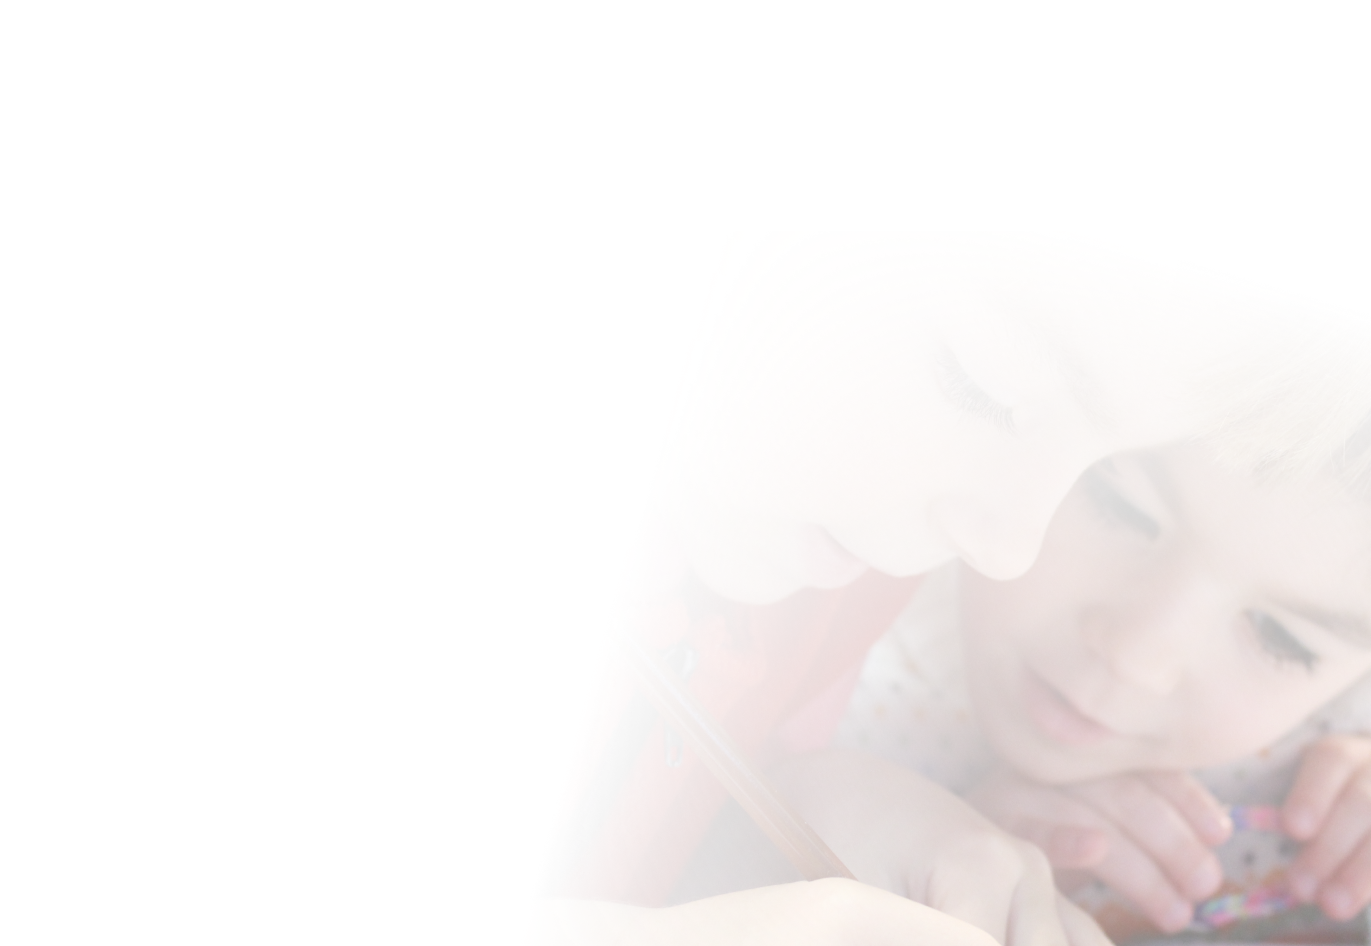
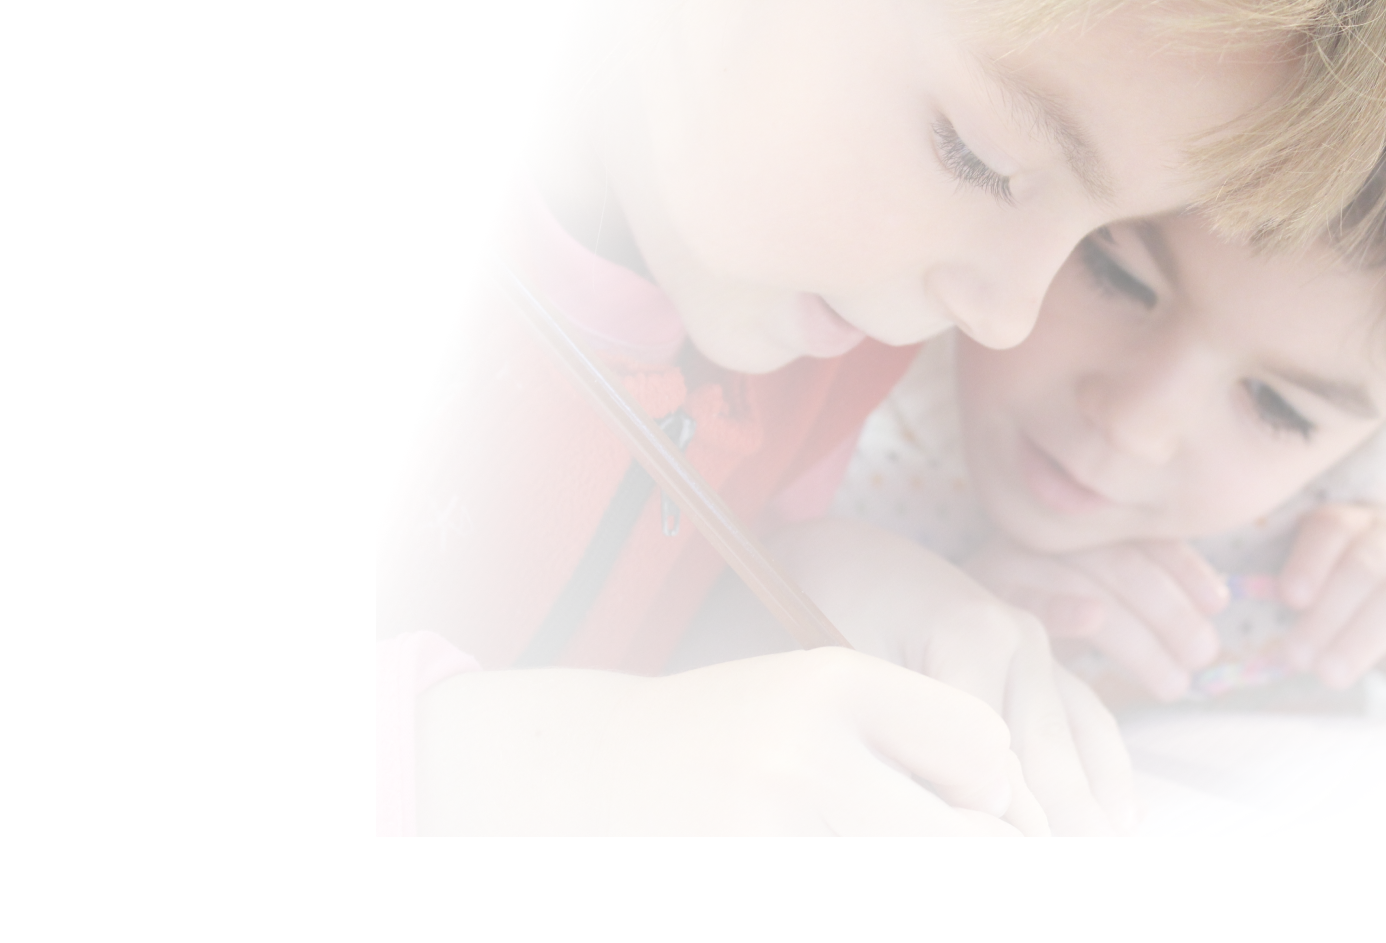
Fixing the layout of the homepage

diff --git a/src/App.js b/src/App.js
@@ -79,19 +79,21 @@ function App() {
           <div className="line3"></div>
         </div>
       </nav>
-      {/* <div className="home">
+      <div className="home">
         <div className="home-text">
           <h3 className="home-title">Orton-Gillingham Tutoring</h3>
           <p className="home-description">Online Tutoring providing multi-sensory, individualized, diagnostically driven, prescriptive, direct, and explicit instruction in reading and writing. Orton-Gillingham is an instructional approach intended primarily for use with persons who have difficulty with reading, spelling, and writing of the sort associated with dyslexia and language based learning challenges.</p>
+          <h4 className="home-dyslexia-title">What is Dyslexia</h4>
+          <p className="home-dyslexia-description"><strong>The International Dyslexia Association and National Institute of Child Health and Human Development defines it as follows:</strong><br />Dyslexia is a specific learning disability that is neurological in origin. It is characterized by difficulties with accurate and/or fluent word recognition and by poor spelling and decoding abilities. These difficulties typically result from a deficit in the phonological component of language that is often unexpected in relation to other cogntivie abilities and the provision of effective classroom instruction. Secondary consequences may include problems in reading comprehension and reduced reading experience that can impede growth of vocabulary and background knowledge.</p>
         </div>
-      </div> */}
+      </div>
 
-      <div className="the-tutor">
+      {/* <div className="the-tutor">
         <div className="the-tutor-text">
           <h3 className="the-tutor-title">Georgia Stamos</h3>
           <p className="the-tutor-description">I am a Certified Orton Gillingham Practitioner, providing multi-sensory instruction to children with reading and spelling difficulties. I have received a Masters Degree in General and Special Education and have worked with students in grades 1-6 since 2009, providing individualized instructional support in Reading, Writing, and Math.</p>
         </div>
-      </div>
+      </div> */}
     </React.Fragment>
   );
 }

diff --git a/src/App.css b/src/App.css
@@ -14,6 +14,7 @@
 
 body{
   background-color: var(--primary-bg-color);
+  overflow-x: hidden;
 }
 
 .logo{
@@ -67,29 +68,52 @@ nav{
 .home{
   background-image: url("./assets/Home-background.png");
   height: 92vh;
-  background-position: bottom right;
+  background-position: top right;
   background-repeat: no-repeat;
   background-size: contain;
 }
 
 .home-text{
-  display: flex;
-  flex-direction: column;
-  height: 92vh;
+  display: grid;
+  height: 82vh;
   width: 50%;
-  justify-content: center;
-  align-items: flex-start;
+  padding: 10vh;
+  justify-items: center;
+  text-align: center;
+  grid-template-columns: 1fr;
+  grid-template-rows: 1fr 1fr 1fr 1fr;
+  grid-template-areas:
+  "hometitle"
+  "homedescription"
+  "homedyslexiatitle"
+  "homedyslexiadescription";
 }
 
 .home-title{
-  margin: 0 0 10% 10%;
+  grid-area: hometitle;
   color: var(--main-text-color);
   font-family: 'Poppins', sans-serif;
   font-size: 28px;
 }
 
 .home-description{
-  margin: 0 10% 0 10%;
+  margin: 5vh 0 10vh 0;
+  grid-area: homedescription;
+  color: var(--main-text-color);
+  font-family: 'Poppins', sans-serif;
+  font-size: 14px;
+}
+
+.home-dyslexia-title{
+  grid-area: homedyslexiatitle;
+  color: var(--main-text-color);
+  font-family: 'Poppins', sans-serif;
+  font-size: 28px;
+}
+
+.home-dyslexia-description{
+  margin-top: 5vh;
+  grid-area: homedyslexiadescription;
   color: var(--main-text-color);
   font-family: 'Poppins', sans-serif;
   font-size: 14px;
@@ -139,17 +163,22 @@ nav{
 
   .home-text{
     width: 100%;
-    justify-content: flex-start;
-    align-items: center;
+    padding: 5vh;
   }
 
   .home-title{
-    margin: 10% 0 10% 10%;
-    font-size: 28px;
+    font-size: 24px;
   }
 
   .home-description{
-    margin: 0 10% 0 10%;
+    font-size: 14px;
+  }
+
+  .home-dyslexia-title{
+    font-size: 24px;
+  }
+
+  .home-dyslexia-description{
     font-size: 14px;
   }
 
